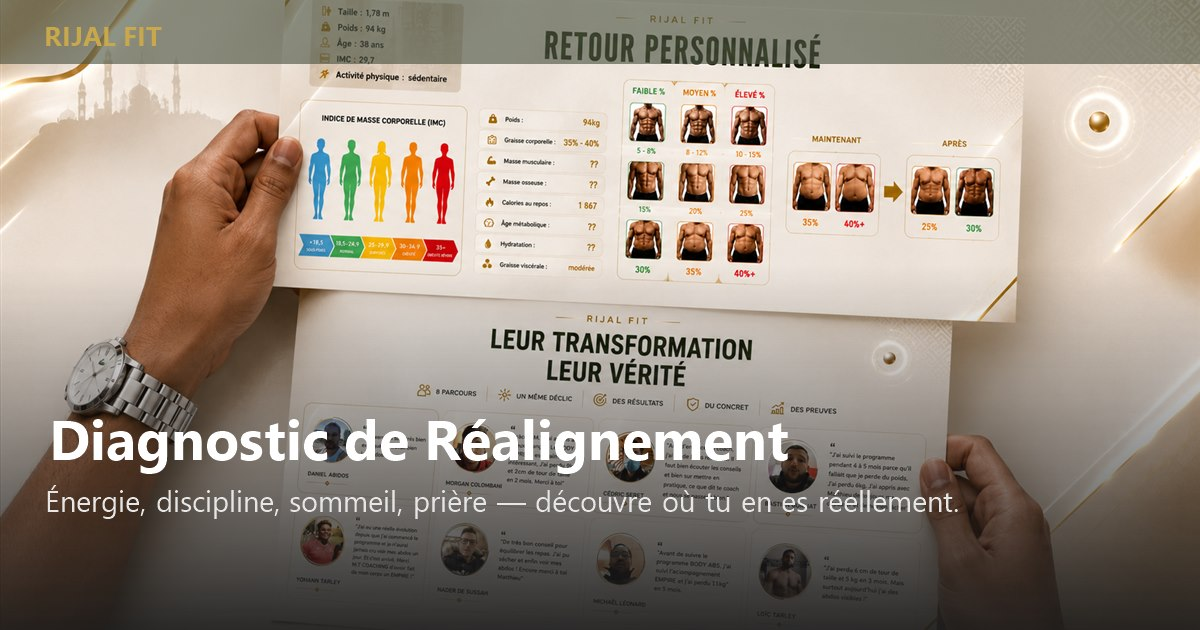
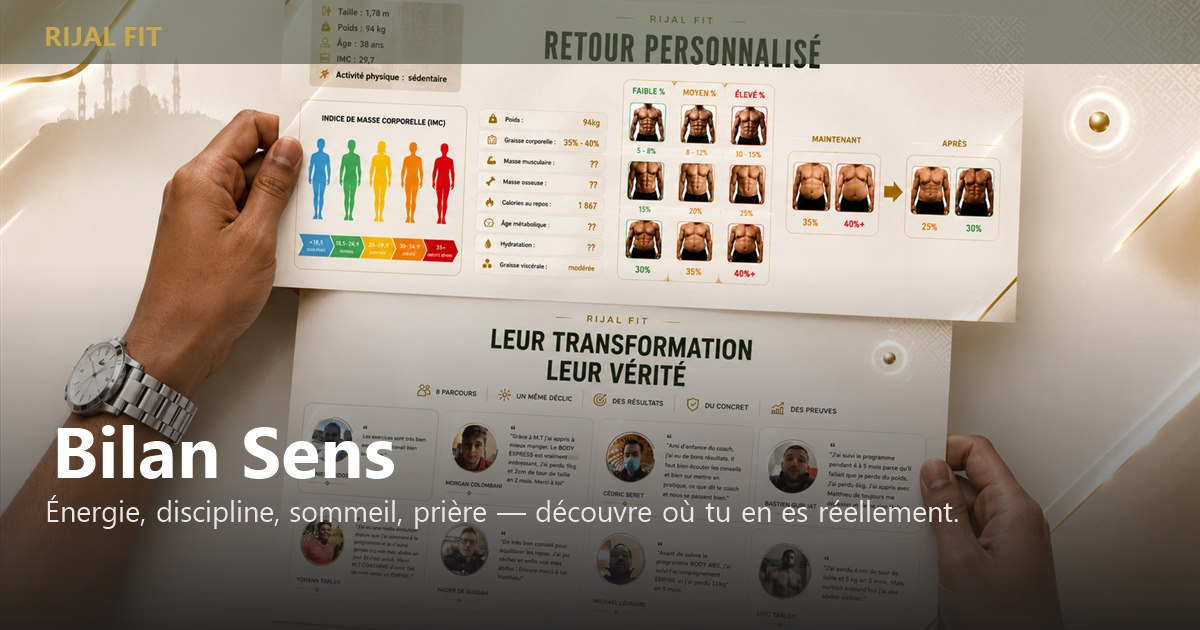
Rename product to "Bilan Sens" everywhere (was "Diagnostic de Réalignement")
Updated <title>, og:title/twitter:title, the intro screen eyebrow, and
the OG share image text. Added a new tagline line ("Donne du sens à ta
santé avant le programme.") between the eyebrow and the hadith quote —
kept as its own element rather than folded into the small-caps eyebrow
style, which isn't meant for full sentences. Replaced the intro
subtitle text per Matthieu's copy, checked against personas/loic.md
and voix/rijal-fit.md before applying.

Changed region(s): [[0.0308, 0.6635, 0.8017, 0.8444]]

diff --git a/index.html b/index.html
@@ -3,18 +3,18 @@
 <head>
   <meta charset="UTF-8" />
   <meta name="viewport" content="width=device-width, initial-scale=1.0" />
-  <title>Diagnostic de Réalignement — Rijal Fit</title>
+  <title>Bilan Sens — Rijal Fit</title>
   <meta name="description" content="Quelques questions honnêtes. Découvre où tu en es réellement — énergie, discipline, sommeil, prière. Sans jugement, sans jargon." />
 
   <meta property="og:type" content="website" />
   <meta property="og:url" content="https://bilan-sens-rijalfit.vercel.app/" />
-  <meta property="og:title" content="Diagnostic de Réalignement — Rijal Fit" />
+  <meta property="og:title" content="Bilan Sens — Rijal Fit" />
   <meta property="og:description" content="Quelques questions honnêtes. Découvre où tu en es réellement — énergie, discipline, sommeil, prière. Sans jugement, sans jargon." />
   <meta property="og:image" content="https://bilan-sens-rijalfit.vercel.app/images/og-image.jpg" />
   <meta property="og:image:width" content="1200" />
   <meta property="og:image:height" content="630" />
   <meta name="twitter:card" content="summary_large_image" />
-  <meta name="twitter:title" content="Diagnostic de Réalignement — Rijal Fit" />
+  <meta name="twitter:title" content="Bilan Sens — Rijal Fit" />
   <meta name="twitter:description" content="Quelques questions honnêtes. Découvre où tu en es réellement — énergie, discipline, sommeil, prière. Sans jugement, sans jargon." />
   <meta name="twitter:image" content="https://bilan-sens-rijalfit.vercel.app/images/og-image.jpg" />
 
@@ -36,9 +36,10 @@
 
     <!-- ═══ ÉCRAN 0 — Intro ═══ -->
     <section id="screen-intro" class="screen photo-bg photo-bg--intro">
-      <p class="eyebrow">Rijal Fit · Diagnostic de Réalignement</p>
+      <p class="eyebrow">Rijal Fit · Bilan Sens</p>
+      <p class="hero-tagline">Donne du sens à ta santé avant le programme.</p>
       <h1 class="hero-title">« Ton corps a un droit sur toi. »</h1>
-      <p class="hero-sub">Énergie, discipline, sommeil, présence dans la prière. Réponds à quelques questions honnêtes et découvre où tu en es réellement — sans jugement, sans jargon.</p>
+      <p class="hero-sub">Ce bilan est un point de départ vers ce qui compte profondément pour toi. Ton corps t'envoie des signaux sur ton état de santé, et ce bilan met des mots justes sur ce que tu vis en silence.</p>
       <button type="button" id="start-btn" class="btn btn--primary btn--large">Lancer le diagnostic →</button>
       <p class="hero-reassurance">≈ 2 minutes · Gratuit · Confidentiel</p>
       <div class="stats-row">

diff --git a/style.css b/style.css
@@ -120,6 +120,13 @@ main.container { padding-top: 56px; padding-bottom: 64px; }
 /* ── Intro ── */
 #screen-intro { text-align: center; }
 
+.hero-tagline {
+  font-size: 1rem;
+  font-weight: 600;
+  color: var(--kaki-dark);
+  margin-bottom: .9rem;
+}
+
 .hero-title {
   font-family: 'Rajdhani', sans-serif;
   font-weight: 700;
